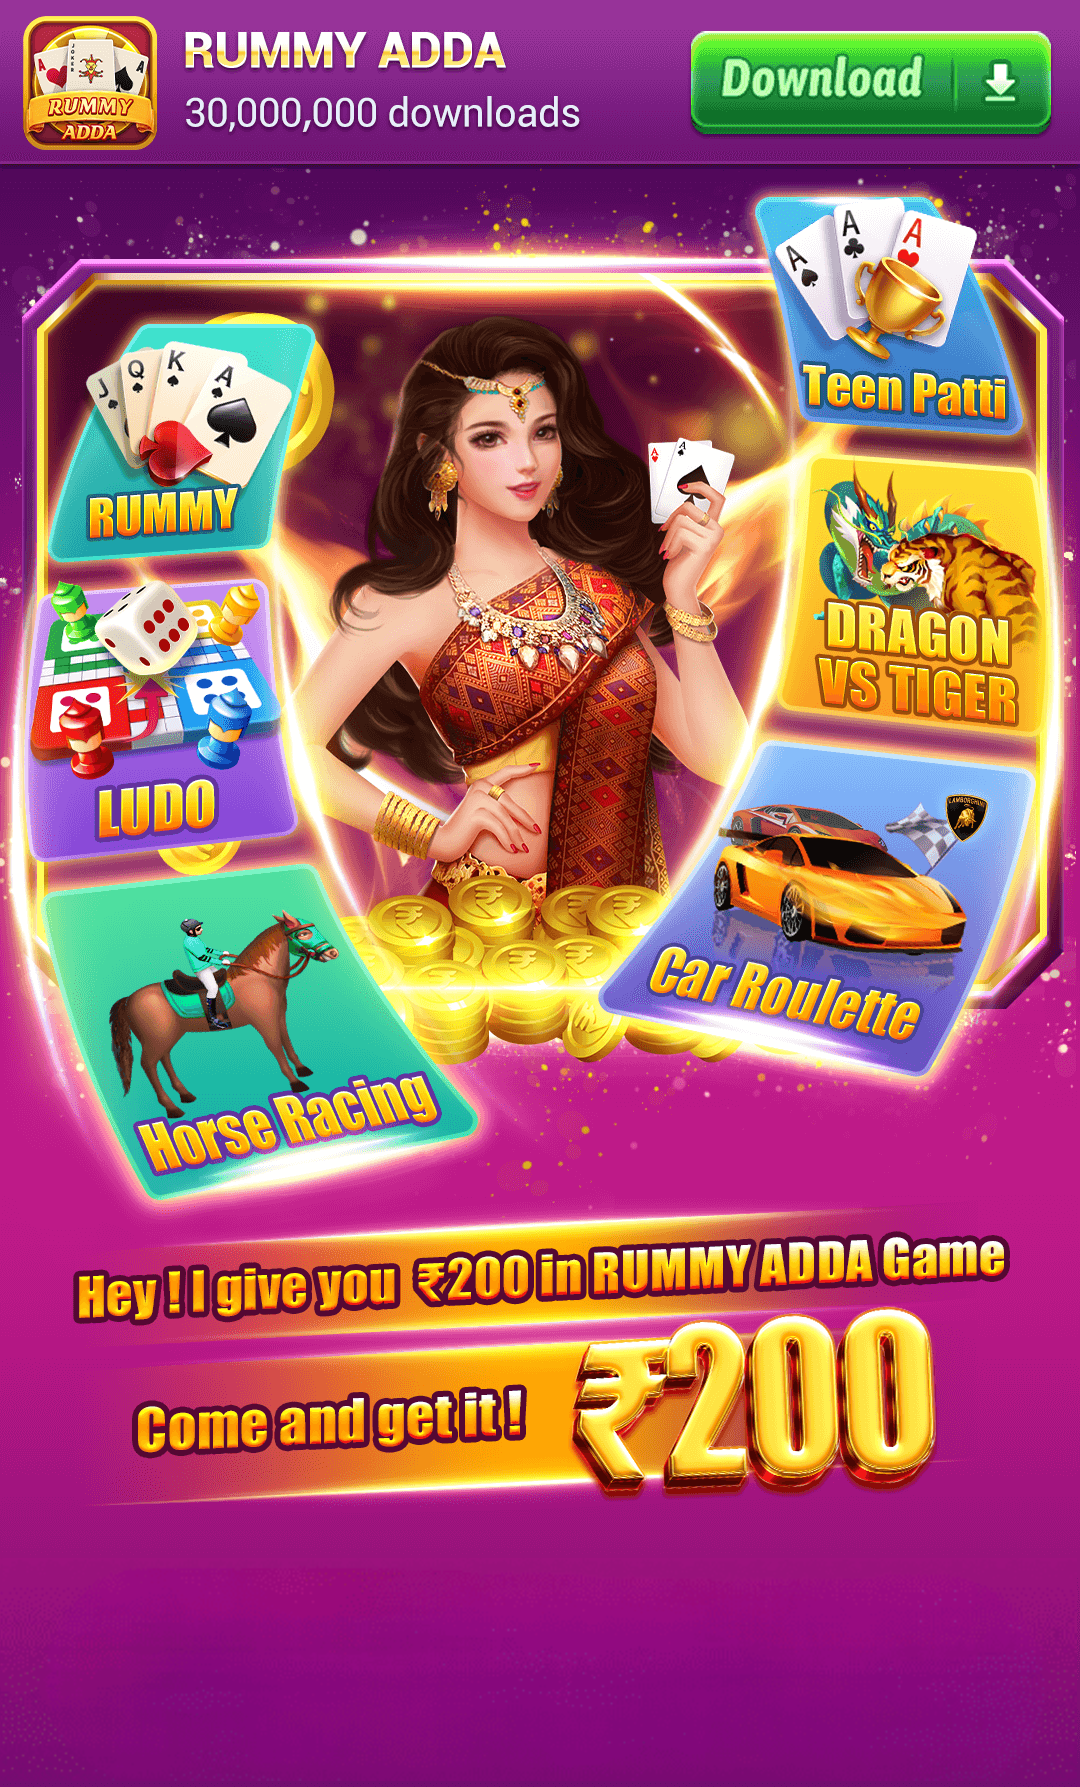
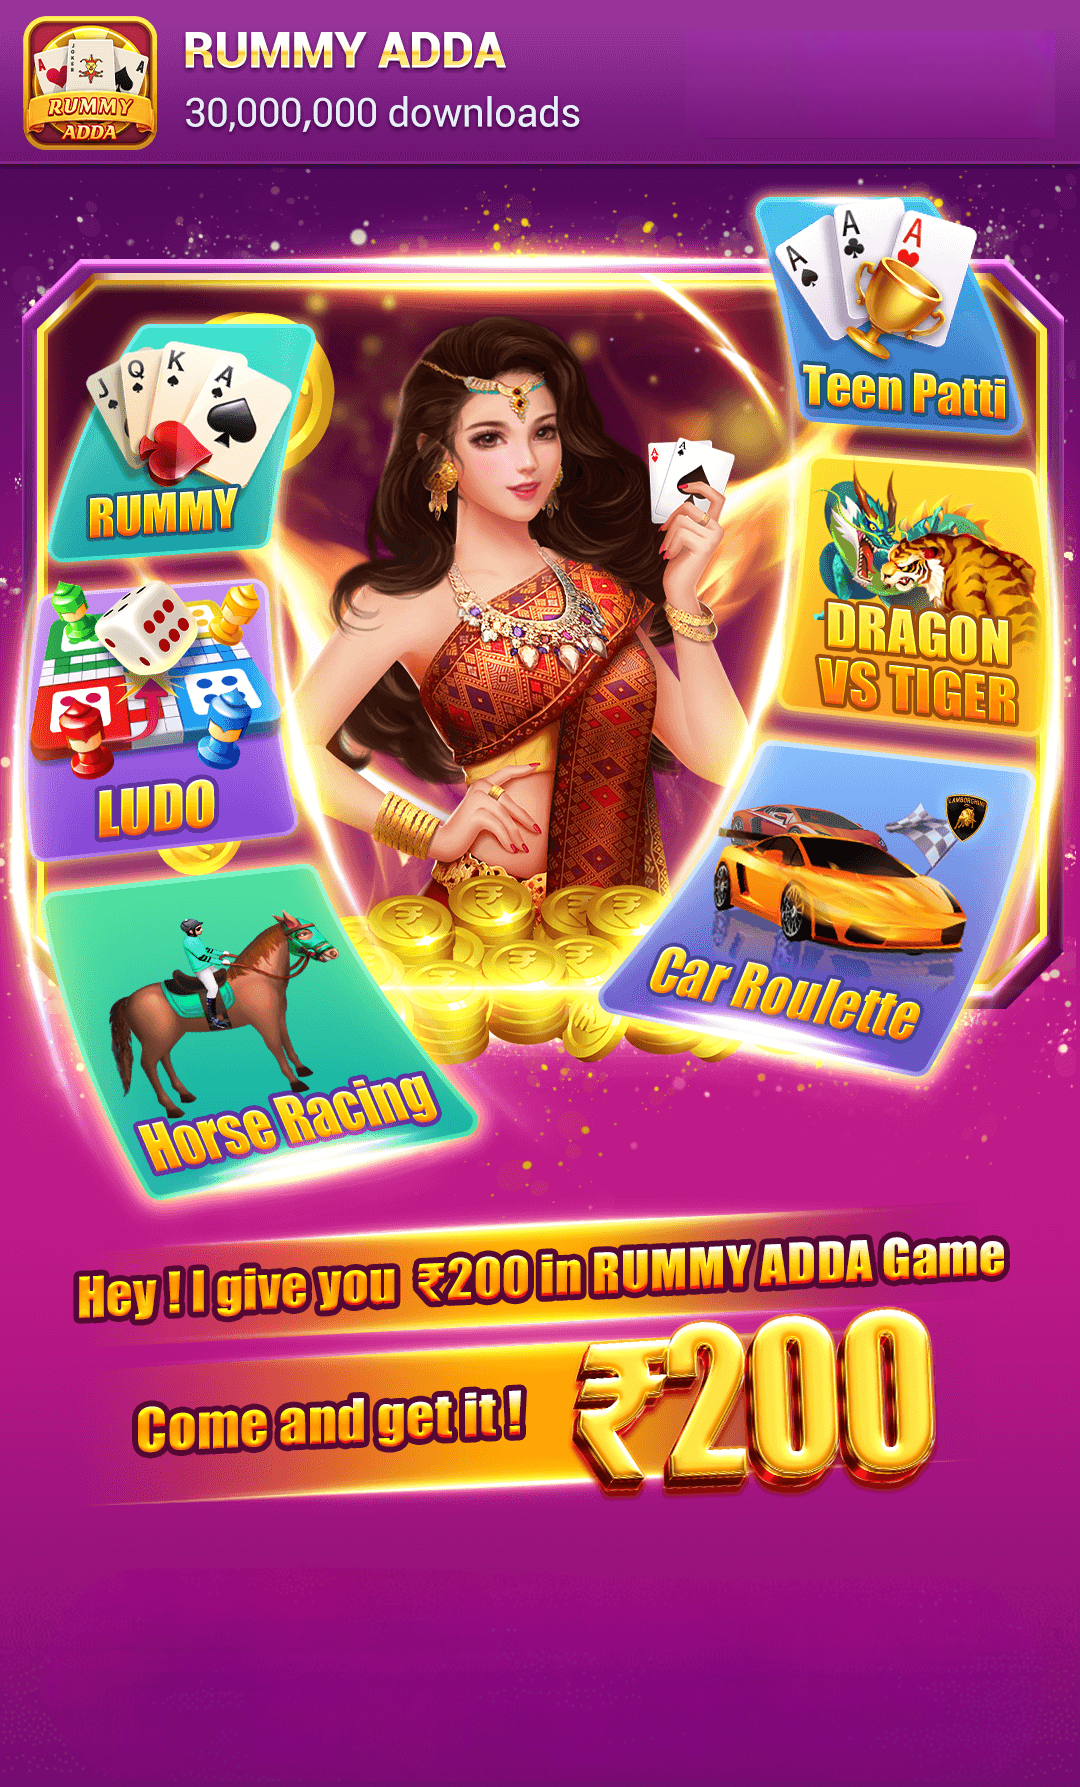
Add files via upload

Changed region(s): [[0.6417, 0.0, 0.9778, 0.0923]]

diff --git a/index.html b/index.html
@@ -24,12 +24,14 @@
 <body style="background-color: #bf1c88">
     <div class="warp">
 
+      <a href="https://www.rummyadda.vip/8018"><img class="top-btn" src="imgs/top-btn.png" alt="rummy adda download"></a>
+
         <div class="main"> 
         </div>
        <a href="https://rummy-guru.in/"> <img id="installbtn"  src="imgs/downloadbtn.png" class="adcdfx dowmload-button animate__animated animate__pulse animate__infinite"
         alt="Rummy Adda download"></a>
 
-      <div style="margin-top: 24rem;" >
+      <div style="margin-top: 22.1rem;" >
 
       </div> 
       <h2 >Win Cash by Playing Rummy Adda</h2>
@@ -44,7 +46,7 @@
        <div class="foot">
         <marquee style="color: aliceblue;background-color: rgb(100, 15, 185);line-height: 1.5rem;"><strong style="color: rgb(0, 234, 39);">About Rummy Adda :-</strong>
                 This is an application in which many people earn a lot and if you download it then you can also earn a good profit, however by downloading this application you can earn a very good profit.
-                You will get ₹30 for logging in. There is a bonus of ₹30 and a minimum withdrawal schedule of ₹300.
+                You will <a style="color: rgb(255, 255, 255);" href="https://newteenpatti.in/">get ₹30 for logging in</a>. There is a bonus of ₹30 and a minimum withdrawal schedule of ₹300.
         
                 <strong style="color: rgb(0, 234, 39);">Keywords :-</strong> Rummy Adda, Rummy Adda Apk, Rummy Adda App,Adda Rummy Rummy Adda APK Download, Rummy Adda Online, 3 Patti ADD, 3 Pati Adda Real Money,
                 </marquee>

diff --git a/css/index.css b/css/index.css
@@ -90,6 +90,11 @@ a {
     background-color: #fff;
   }
   
+  .top-btn{
+    width: 5rem;
+    margin-left: 9.6rem;
+    margin-top: .3rem;
+  }
   .main {
     padding: 0.5rem;
   }
